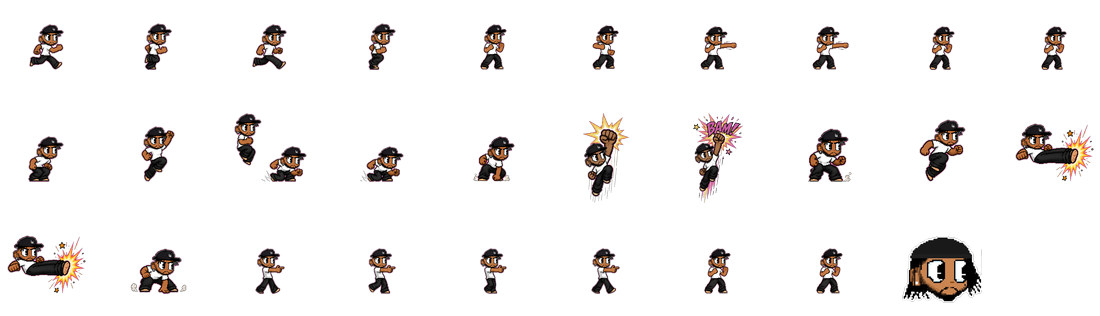
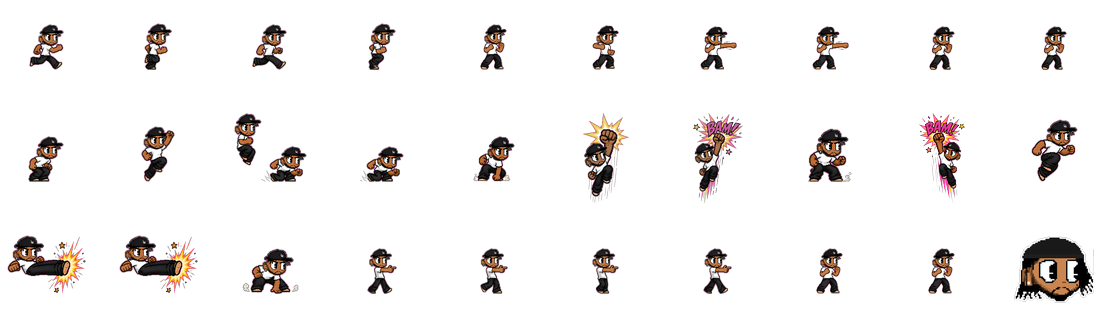
Left-facing uppercut BAM frame (un-mirrored text) + global +15% contrast
- Add art/BamBamUppercut/frame2_left.png as hero.uppercutL.2 — a dedicated
  west-facing BAM! peak. The engine mirrors east->west for everything, which
  flipped the "BAM!" lettering backwards; drawPlayer now draws this un-mirrored
  (drawFace forced +1) when the uppercut is on the peak frame and facing left.
- Bump global contrast +15% via a CSS filter on the game canvas (#c).

diff --git a/src/game.html b/src/game.html
@@ -29,7 +29,7 @@ html,body{width:100%;height:100%;background:#000;color:var(--bone);
 #stage{position:absolute;inset:0;display:flex;align-items:center;justify-content:center;background:#000}
 #frame{position:relative;line-height:0}
 canvas{display:block;image-rendering:pixelated;image-rendering:crisp-edges;touch-action:none}
-#c{filter:none}
+#c{filter:contrast(1.15)}   /* +15% contrast across the whole rendered game */
 
 /* ---- touch ---- */
 #touch{position:absolute;inset:0;pointer-events:none;opacity:0;transition:opacity .2s}
@@ -2893,14 +2893,20 @@ function drawPlayer(){
   }
   shadow(P.x,P.z,16-P.y*0.06);
   let key='hero.rot.east';
+  let drawFace=P.face;   // normally P.face; overridden to +1 for the dedicated left-facing (un-mirrored) uppercut frame
   if(P.state==='walk') key='hero.walk.'+(Math.floor(t*.16)%4);
   if(P.state==='idle') key='hero.rot.east';
   if(P.state==='jump') key='hero.jump.'+clamp(Math.floor(P.airT/9),0,3);   // 0 push-off, 1 rise, 2 peak, 3 fall/land
   if(P.state==='imagine') key= IDX['hero.swag.0'] ? 'hero.swag.'+(Math.floor(t*.4)%4) : 'hero.rot.east';
   if(P.state==='air') key= IDX['hero.kick.0'] ? 'hero.kick.'+clamp(Math.floor(P.st/3),0,3)      // DROP KICK
                                               : 'hero.jump.3';
-  if(P.state==='upper') key= IDX['hero.uppercut.0'] ? 'hero.uppercut.'+(P.st<3?0:P.vy>1.0?1:P.vy>-2?2:3)  // UPPERCUT: crouch→rising fist→BAM→land
-                                                    : 'hero.jump.2';
+  if(P.state==='upper'){
+    if(IDX['hero.uppercut.0']){
+      const uf = (P.st<3?0:P.vy>1.0?1:P.vy>-2?2:3);   // crouch → rising fist → BAM → land
+      if(uf===2 && P.face<0 && IDX['hero.uppercutL.2']){ key='hero.uppercutL.2'; drawFace=1; }  // face left: use the pre-drawn left BAM so the lettering isn't mirrored
+      else key='hero.uppercut.'+uf;
+    } else key='hero.jump.2';
+  }
   if(P.state==='down') key='hero.jump.'+(P.downT>40?0:3);   // flat on the pavement (drawn rotated below); reuse a low crouch pose
   if(P.state==='punch') key=comboKey(cStep());
   // hit recoil — while the flash is fresh and you're not mid-action, stumble back.
@@ -2918,7 +2924,7 @@ function drawPlayer(){
   if(P.state==='down') tilt = -P.face*clamp((66-P.downT)/12,0,1)*1.45;   // he goes flat
   if(Math.abs(tilt)>0.005){ ctx.save(); ctx.translate(P.x-camX,P.z); ctx.rotate(tilt); ctx.translate(-(P.x-camX),-P.z); }
   if(MP && myCoopIdx>=0){ tint=COOP_COLORS[myCoopIdx]; amt=0.45; }   // co-op identity mask on yourself too
-  spr(key,P.x-camX,P.z-P.y,P.face,tint,amt);
+  spr(key,P.x-camX,P.z-P.y,drawFace,tint,amt);
   if(Math.abs(tilt)>0.005) ctx.restore();
   ctx.globalAlpha=1;
   if(MP && myCoopIdx>=0) coopTag(P.x-camX, P.z-P.y, myCoopIdx);       // 1P/2P/… above your own head

diff --git a/src/pack.py b/src/pack.py
@@ -91,6 +91,10 @@ pack_one("hero.uppercut.0", UC, "frame0.png", reframe_solo(os.path.join(ROOT,UC,
 pack_one("hero.uppercut.1", UC, "frame1.png", reframe_centered(os.path.join(ROOT,UC,"frame1.png"), 90))
 pack_one("hero.uppercut.2", UC, "frame2.png", reframe_centered(os.path.join(ROOT,UC,"frame2.png"), 90))
 pack_one("hero.uppercut.3", UC, "frame3.png", reframe_solo(os.path.join(ROOT,UC,"frame3.png"), hero_h=54))
+# dedicated WEST-facing BAM! peak: the engine mirrors east->west for everything, which
+# would flip the "BAM!" lettering backwards. This frame already faces left with correct
+# text, so drawPlayer draws it un-mirrored when facing left instead of the flipped frame2.
+pack_one("hero.uppercutL.2", UC, "frame2_left.png", reframe_centered(os.path.join(ROOT,UC,"frame2_left.png"), 90))
 pack_frames("hero.kick", "BamBamKick",     ["frame1.png","frame2.png","frame2.png","frame3.png"], ref_file="frame3.png")  # frame0 (run start) is grounded, never shown — 'kick' state starts mid-air
 pack_frames("hero.swag", "BamBamSwag",     ["frame0.png","frame1.png","frame2.png","frame3.png"])
 